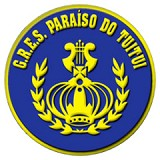
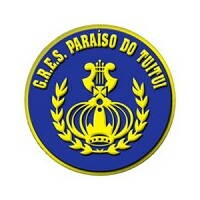
palettes and shields + minor changes

diff --git a/LICENSE.md b/LICENSE.md
@@ -1,43 +1,21 @@
-## creative commons
+# MIT License
 
-# CC0 1.0 Universal
+Copyright (c) 2023 carnaval authors
 
-CREATIVE COMMONS CORPORATION IS NOT A LAW FIRM AND DOES NOT PROVIDE LEGAL SERVICES. DISTRIBUTION OF THIS DOCUMENT DOES NOT CREATE AN ATTORNEY-CLIENT RELATIONSHIP. CREATIVE COMMONS PROVIDES THIS INFORMATION ON AN "AS-IS" BASIS. CREATIVE COMMONS MAKES NO WARRANTIES REGARDING THE USE OF THIS DOCUMENT OR THE INFORMATION OR WORKS PROVIDED HEREUNDER, AND DISCLAIMS LIABILITY FOR DAMAGES RESULTING FROM THE USE OF THIS DOCUMENT OR THE INFORMATION OR WORKS PROVIDED HEREUNDER.
+Permission is hereby granted, free of charge, to any person obtaining a copy
+of this software and associated documentation files (the "Software"), to deal
+in the Software without restriction, including without limitation the rights
+to use, copy, modify, merge, publish, distribute, sublicense, and/or sell
+copies of the Software, and to permit persons to whom the Software is
+furnished to do so, subject to the following conditions:
 
-### Statement of Purpose
+The above copyright notice and this permission notice shall be included in all
+copies or substantial portions of the Software.
 
-The laws of most jurisdictions throughout the world automatically confer exclusive Copyright and Related Rights (defined below) upon the creator and subsequent owner(s) (each and all, an "owner") of an original work of authorship and/or a database (each, a "Work").
-
-Certain owners wish to permanently relinquish those rights to a Work for the purpose of contributing to a commons of creative, cultural and scientific works ("Commons") that the public can reliably and without fear of later claims of infringement build upon, modify, incorporate in other works, reuse and redistribute as freely as possible in any form whatsoever and for any purposes, including without limitation commercial purposes. These owners may contribute to the Commons to promote the ideal of a free culture and the further production of creative, cultural and scientific works, or to gain reputation or greater distribution for their Work in part through the use and efforts of others.
-
-For these and/or other purposes and motivations, and without any expectation of additional consideration or compensation, the person associating CC0 with a Work (the "Affirmer"), to the extent that he or she is an owner of Copyright and Related Rights in the Work, voluntarily elects to apply CC0 to the Work and publicly distribute the Work under its terms, with knowledge of his or her Copyright and Related Rights in the Work and the meaning and intended legal effect of CC0 on those rights.
-
-1. __Copyright and Related Rights.__ A Work made available under CC0 may be protected by copyright and related or neighboring rights ("Copyright and Related Rights"). Copyright and Related Rights include, but are not limited to, the following:
-
-    i. the right to reproduce, adapt, distribute, perform, display, communicate, and translate a Work;
-
-    ii. moral rights retained by the original author(s) and/or performer(s);
-
-    iii. publicity and privacy rights pertaining to a person's image or likeness depicted in a Work;
-
-    iv. rights protecting against unfair competition in regards to a Work, subject to the limitations in paragraph 4(a), below;
-
-    v. rights protecting the extraction, dissemination, use and reuse of data in a Work;
-
-    vi. database rights (such as those arising under Directive 96/9/EC of the European Parliament and of the Council of 11 March 1996 on the legal protection of databases, and under any national implementation thereof, including any amended or successor version of such directive); and
-
-    vii. other similar, equivalent or corresponding rights throughout the world based on applicable law or treaty, and any national implementations thereof.
-
-2. __Waiver.__ To the greatest extent permitted by, but not in contravention of, applicable law, Affirmer hereby overtly, fully, permanently, irrevocably and unconditionally waives, abandons, and surrenders all of Affirmer's Copyright and Related Rights and associated claims and causes of action, whether now known or unknown (including existing as well as future claims and causes of action), in the Work (i) in all territories worldwide, (ii) for the maximum duration provided by applicable law or treaty (including future time extensions), (iii) in any current or future medium and for any number of copies, and (iv) for any purpose whatsoever, including without limitation commercial, advertising or promotional purposes (the "Waiver"). Affirmer makes the Waiver for the benefit of each member of the public at large and to the detriment of Affirmer's heirs and successors, fully intending that such Waiver shall not be subject to revocation, rescission, cancellation, termination, or any other legal or equitable action to disrupt the quiet enjoyment of the Work by the public as contemplated by Affirmer's express Statement of Purpose.
-
-3. __Public License Fallback.__ Should any part of the Waiver for any reason be judged legally invalid or ineffective under applicable law, then the Waiver shall be preserved to the maximum extent permitted taking into account Affirmer's express Statement of Purpose. In addition, to the extent the Waiver is so judged Affirmer hereby grants to each affected person a royalty-free, non transferable, non sublicensable, non exclusive, irrevocable and unconditional license to exercise Affirmer's Copyright and Related Rights in the Work (i) in all territories worldwide, (ii) for the maximum duration provided by applicable law or treaty (including future time extensions), (iii) in any current or future medium and for any number of copies, and (iv) for any purpose whatsoever, including without limitation commercial, advertising or promotional purposes (the "License"). The License shall be deemed effective as of the date CC0 was applied by Affirmer to the Work. Should any part of the License for any reason be judged legally invalid or ineffective under applicable law, such partial invalidity or ineffectiveness shall not invalidate the remainder of the License, and in such case Affirmer hereby affirms that he or she will not (i) exercise any of his or her remaining Copyright and Related Rights in the Work or (ii) assert any associated claims and causes of action with respect to the Work, in either case contrary to Affirmer's express Statement of Purpose.
-
-4. __Limitations and Disclaimers.__
-
-    a. No trademark or patent rights held by Affirmer are waived, abandoned, surrendered, licensed or otherwise affected by this document.
-
-    b. Affirmer offers the Work as-is and makes no representations or warranties of any kind concerning the Work, express, implied, statutory or otherwise, including without limitation warranties of title, merchantability, fitness for a particular purpose, non infringement, or the absence of latent or other defects, accuracy, or the present or absence of errors, whether or not discoverable, all to the greatest extent permissible under applicable law.
-
-    c. Affirmer disclaims responsibility for clearing rights of other persons that may apply to the Work or any use thereof, including without limitation any person's Copyright and Related Rights in the Work. Further, Affirmer disclaims responsibility for obtaining any necessary consents, permissions or other rights required for any use of the Work.
-
-    d. Affirmer understands and acknowledges that Creative Commons is not a party to this document and has no duty or obligation with respect to this CC0 or use of the Work.
+THE SOFTWARE IS PROVIDED "AS IS", WITHOUT WARRANTY OF ANY KIND, EXPRESS OR
+IMPLIED, INCLUDING BUT NOT LIMITED TO THE WARRANTIES OF MERCHANTABILITY,
+FITNESS FOR A PARTICULAR PURPOSE AND NONINFRINGEMENT. IN NO EVENT SHALL THE
+AUTHORS OR COPYRIGHT HOLDERS BE LIABLE FOR ANY CLAIM, DAMAGES OR OTHER
+LIABILITY, WHETHER IN AN ACTION OF CONTRACT, TORT OR OTHERWISE, ARISING FROM,
+OUT OF OR IN CONNECTION WITH THE SOFTWARE OR THE USE OR OTHER DEALINGS IN THE
+SOFTWARE.

diff --git a/README.md b/README.md
@@ -6,6 +6,7 @@
 
 [![Lifecycle:
 experimental](https://lifecycle.r-lib.org/articles/figures/lifecycle-experimental.svg)](https://www.tidyverse.org/lifecycle/#experimental)
+
 <!-- badges: end -->
 
 Carnaval is the biggest street feast of Brazil. It happens all over the
@@ -74,3 +75,8 @@ get_scores(years = c(1968, 1970), schools = c("portela", "Estácio de Sá"))
 #> 10 Estácio de Sá  1968     2 DESFILE NÃO INTERROMPIDO Sandra Dicken      judge2 
 #> # … with 42 more rows, and abbreviated variable name ¹judge_number
 ```
+
+## Palettes
+
+<img src="tools/palettes/Beija_Flor.png" width="50%"/>
+<img src="tools/shields/Beija_Flor.jpg" width="50%"/>
